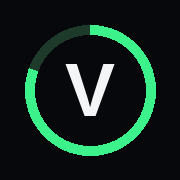
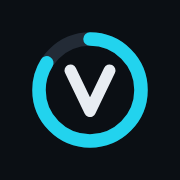
Ícone novo: anel da nota com V
Claude-Session: https://claude.ai/code/session_019KHS6qQ6ksa9Rs5vr6hSdS

diff --git a/sw.js b/sw.js
@@ -1,5 +1,5 @@
 // Cache só do "casco" do app; dados vêm sempre do banco.
-const CACHE = 'vinek-v9';
+const CACHE = 'vinek-v10';
 const SHELL = ['/', '/index.html', '/manifest.webmanifest', '/icon-192.png', '/icon-512.png', '/supabase.js'];
 
 self.addEventListener('install', e => {
